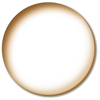
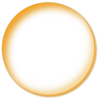
better orange bubble, numberOfQuotes, remove scrollbars

Changed region(s): [[0.0, 0.0, 0.99, 0.99]]

diff --git a/src/app.js b/src/app.js
@@ -11,7 +11,7 @@ const MINUTE_IN_MILLISECONDS = 60000;
 var width = window.innerWidth;
 var height = window.innerHeight;
 var sounds = [ '01', '02', '03', '04', '05', '06', '07', '08', '09', '10', '11', '12', '13', '14', '15', '16', '17', '18', '18', '19', '20', '21', '22', '23', '24', '25', '26','27' ].map((i) => new Howl({
-        urls: [ `celesta/celesta0${i}.mp3` ]
+    urls: [ `celesta/celesta0${i}.mp3` ]
 }));
 
 class Bubble {
@@ -71,29 +71,33 @@ class Bubble {
         return number;
     }
 
-
-
     tick() {
         this.y = this.y - this.speed;
         if (this.y < -100) {
             window.clearInterval(this.interval);
             destroyBubble(this);
+        } else if (this.y > height) {
+            this.y = height;
         }
     }
 
     draw(context) {
-        var tick =
-            context.save();
+        var scale = 0.5 + this.policy.premium / 400;
+
+        context.save();
         context.textAlign = 'center';
         context.textBaseline = 'middle';
-        context.font = "20px serif";
-        var scale = 0.5 + this.policy.premium / 400;
+        context.fillStyle = 'rgba(0, 0, 0, 0.75)';
+        context.font = '20px helvetica';
         context.scale(scale, scale);
         context.translate(this.x + (height - this.y) * Math.sin(this.y / 30) / 50 / scale, this.y / scale);
         context.drawImage(bubbleImages[this.policy.colour], 0, 0, 100, 100);
         context.fillText(`£${this.policy.premium.toFixed(2)}`, 50, 40);
-        context.font = "14px serif";
+        context.font = '14px helvetica';
         context.fillText(`${this.policy.postcode}`, 50, 60);
+        if (this.policy.colour === 'orange') {
+            context.fillText(this.policy.numberOfQuotes, 50, 80);
+        }
         context.restore();
     }
 };
@@ -137,34 +141,37 @@ bubbleImages.orange.onload = () => {
 
 var poll = () => rest(`./policies?minutes=${POLLING_INTERVAL}`).then((response) => {
     var data = JSON.parse(response.entity);
-var minDate;
-var policies = data.map((policyData) => {
+    var minDate;
+    var policies = data.map((policyData) => {
         var date = new moment(new Date(policyData.created));
-if (!date.isAfter(minDate)) {
-    minDate = date;
-}
+        var colour = 'green';
+        if (!date.isAfter(minDate)) {
+            minDate = date;
+        }
 
-var colour = 'green';
+        if (policyData.event.indexOf('purchase') > -1) {
+            colour = 'orange'
+        } else if (policyData.event.indexOf('cancel') > -1) {
+            colour = 'red'
+        }
 
-if (policyData.event.indexOf('purchase') > -1) {
-    colour = 'orange'
-} else if (policyData.event.indexOf('cancel') > -1) {
-    colour = 'red'
-}
+        return {
+            created: date,
+            premium: parseFloat(policyData.premium.replace(/[£,]/g, '')),
+            postcode: policyData.postcode,
+            colour: colour,
+            numberOfQuotes: policyData.number_of_quotes
+        }
+    });
 
-return {
-    created: date,
-    premium: parseFloat(policyData.premium.replace(/[£,]/g, '')),
-    postcode: policyData.postcode,
-    colour: colour,
-    numberOfQuotes: policyData.numberOfQuotes
-}
+    console.log(`will create ${policies.length} bubbles`);
+
+    policies.forEach((policy, index) => {
+        window.setTimeout(() => bubbles.push(new Bubble(policies[index])), policies[index].created.valueOf() - minDate.valueOf());
+    });
 });
 
-console.log(`will create ${policies.length} bubbles`);
-
-policies.forEach((policy, index) => {
-    window.setTimeout(() => bubbles.push(new Bubble(policies[index])),
-policies[index].created.valueOf() - minDate.valueOf());
-});
-});
+window.addEventListener('resize', () => {
+    width = window.innerWidth;
+    height = window.innerHeight;
+}, false);

diff --git a/index.html b/index.html
@@ -5,11 +5,18 @@
         <title>Bubble Expert</title>
         <script type="text/javascript" src="./app.js"></script>
         <style type="text/css">
+            * {
+                margin: 0;
+                padding: 0;
+            }
             body {
                 height: 100%;
                 width: 100%;
                 margin: 0;
             }
+            canvas {
+                display: block;
+                }
         </style>
     </head>
     <body>
